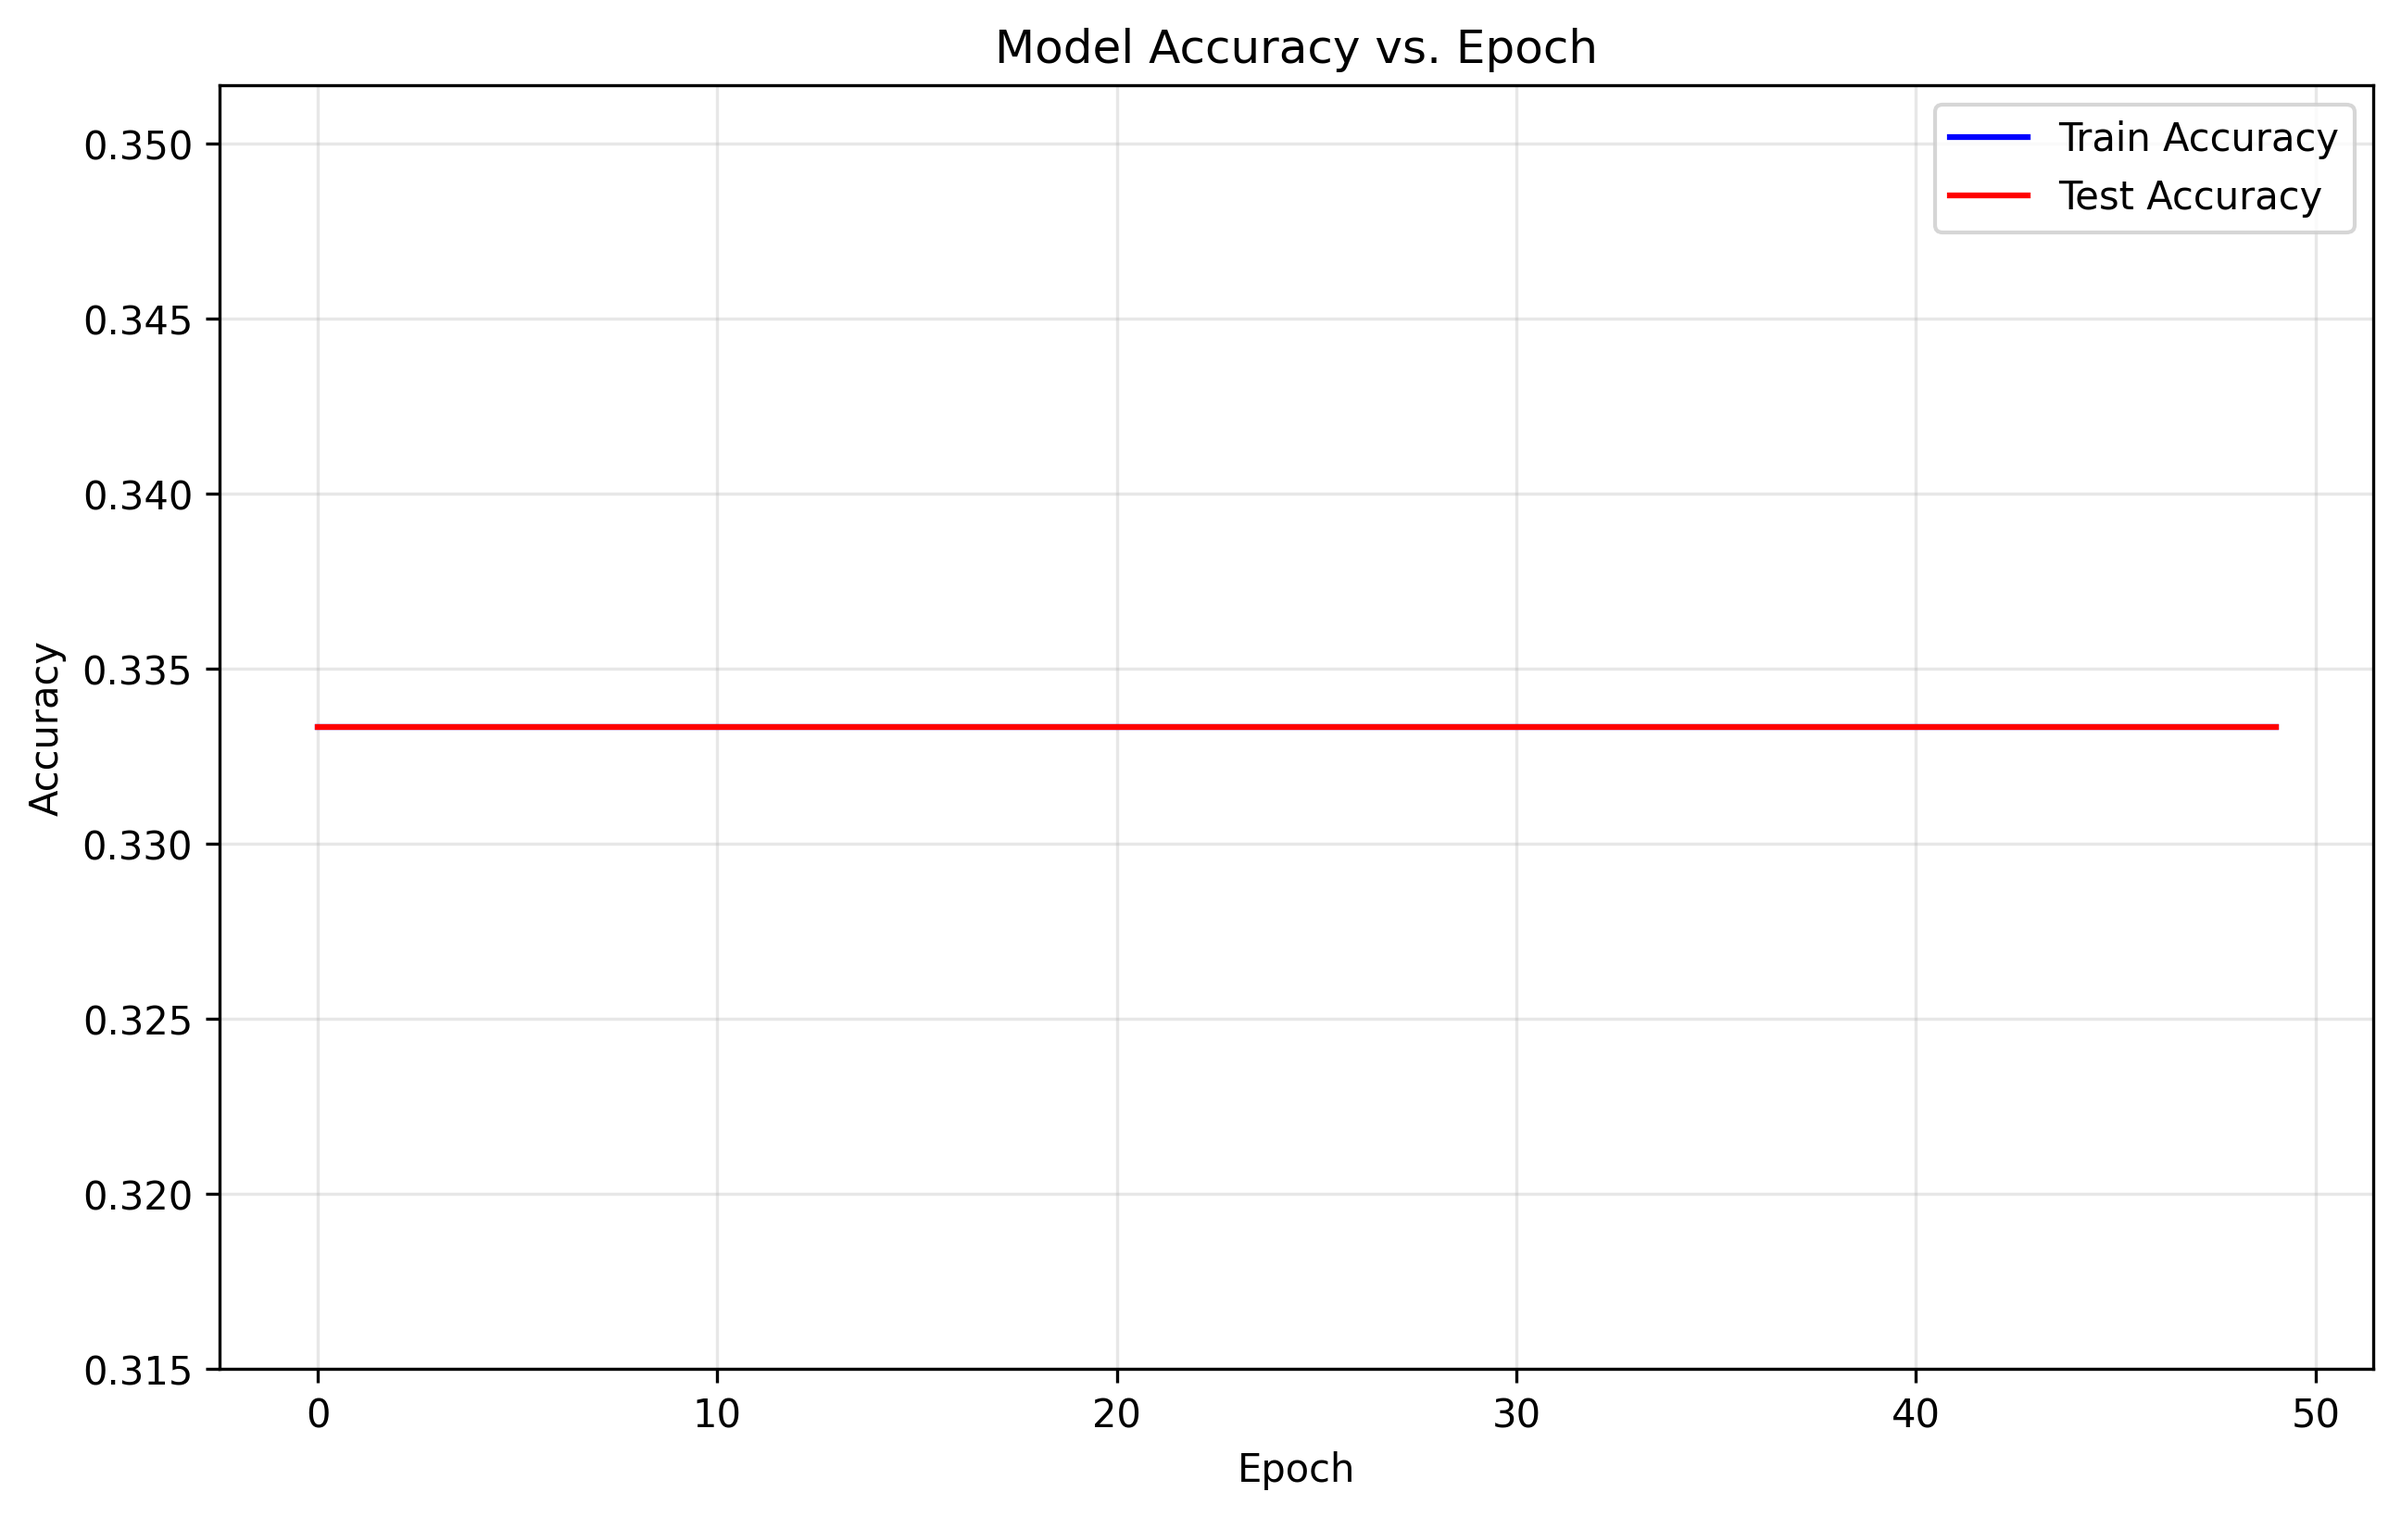
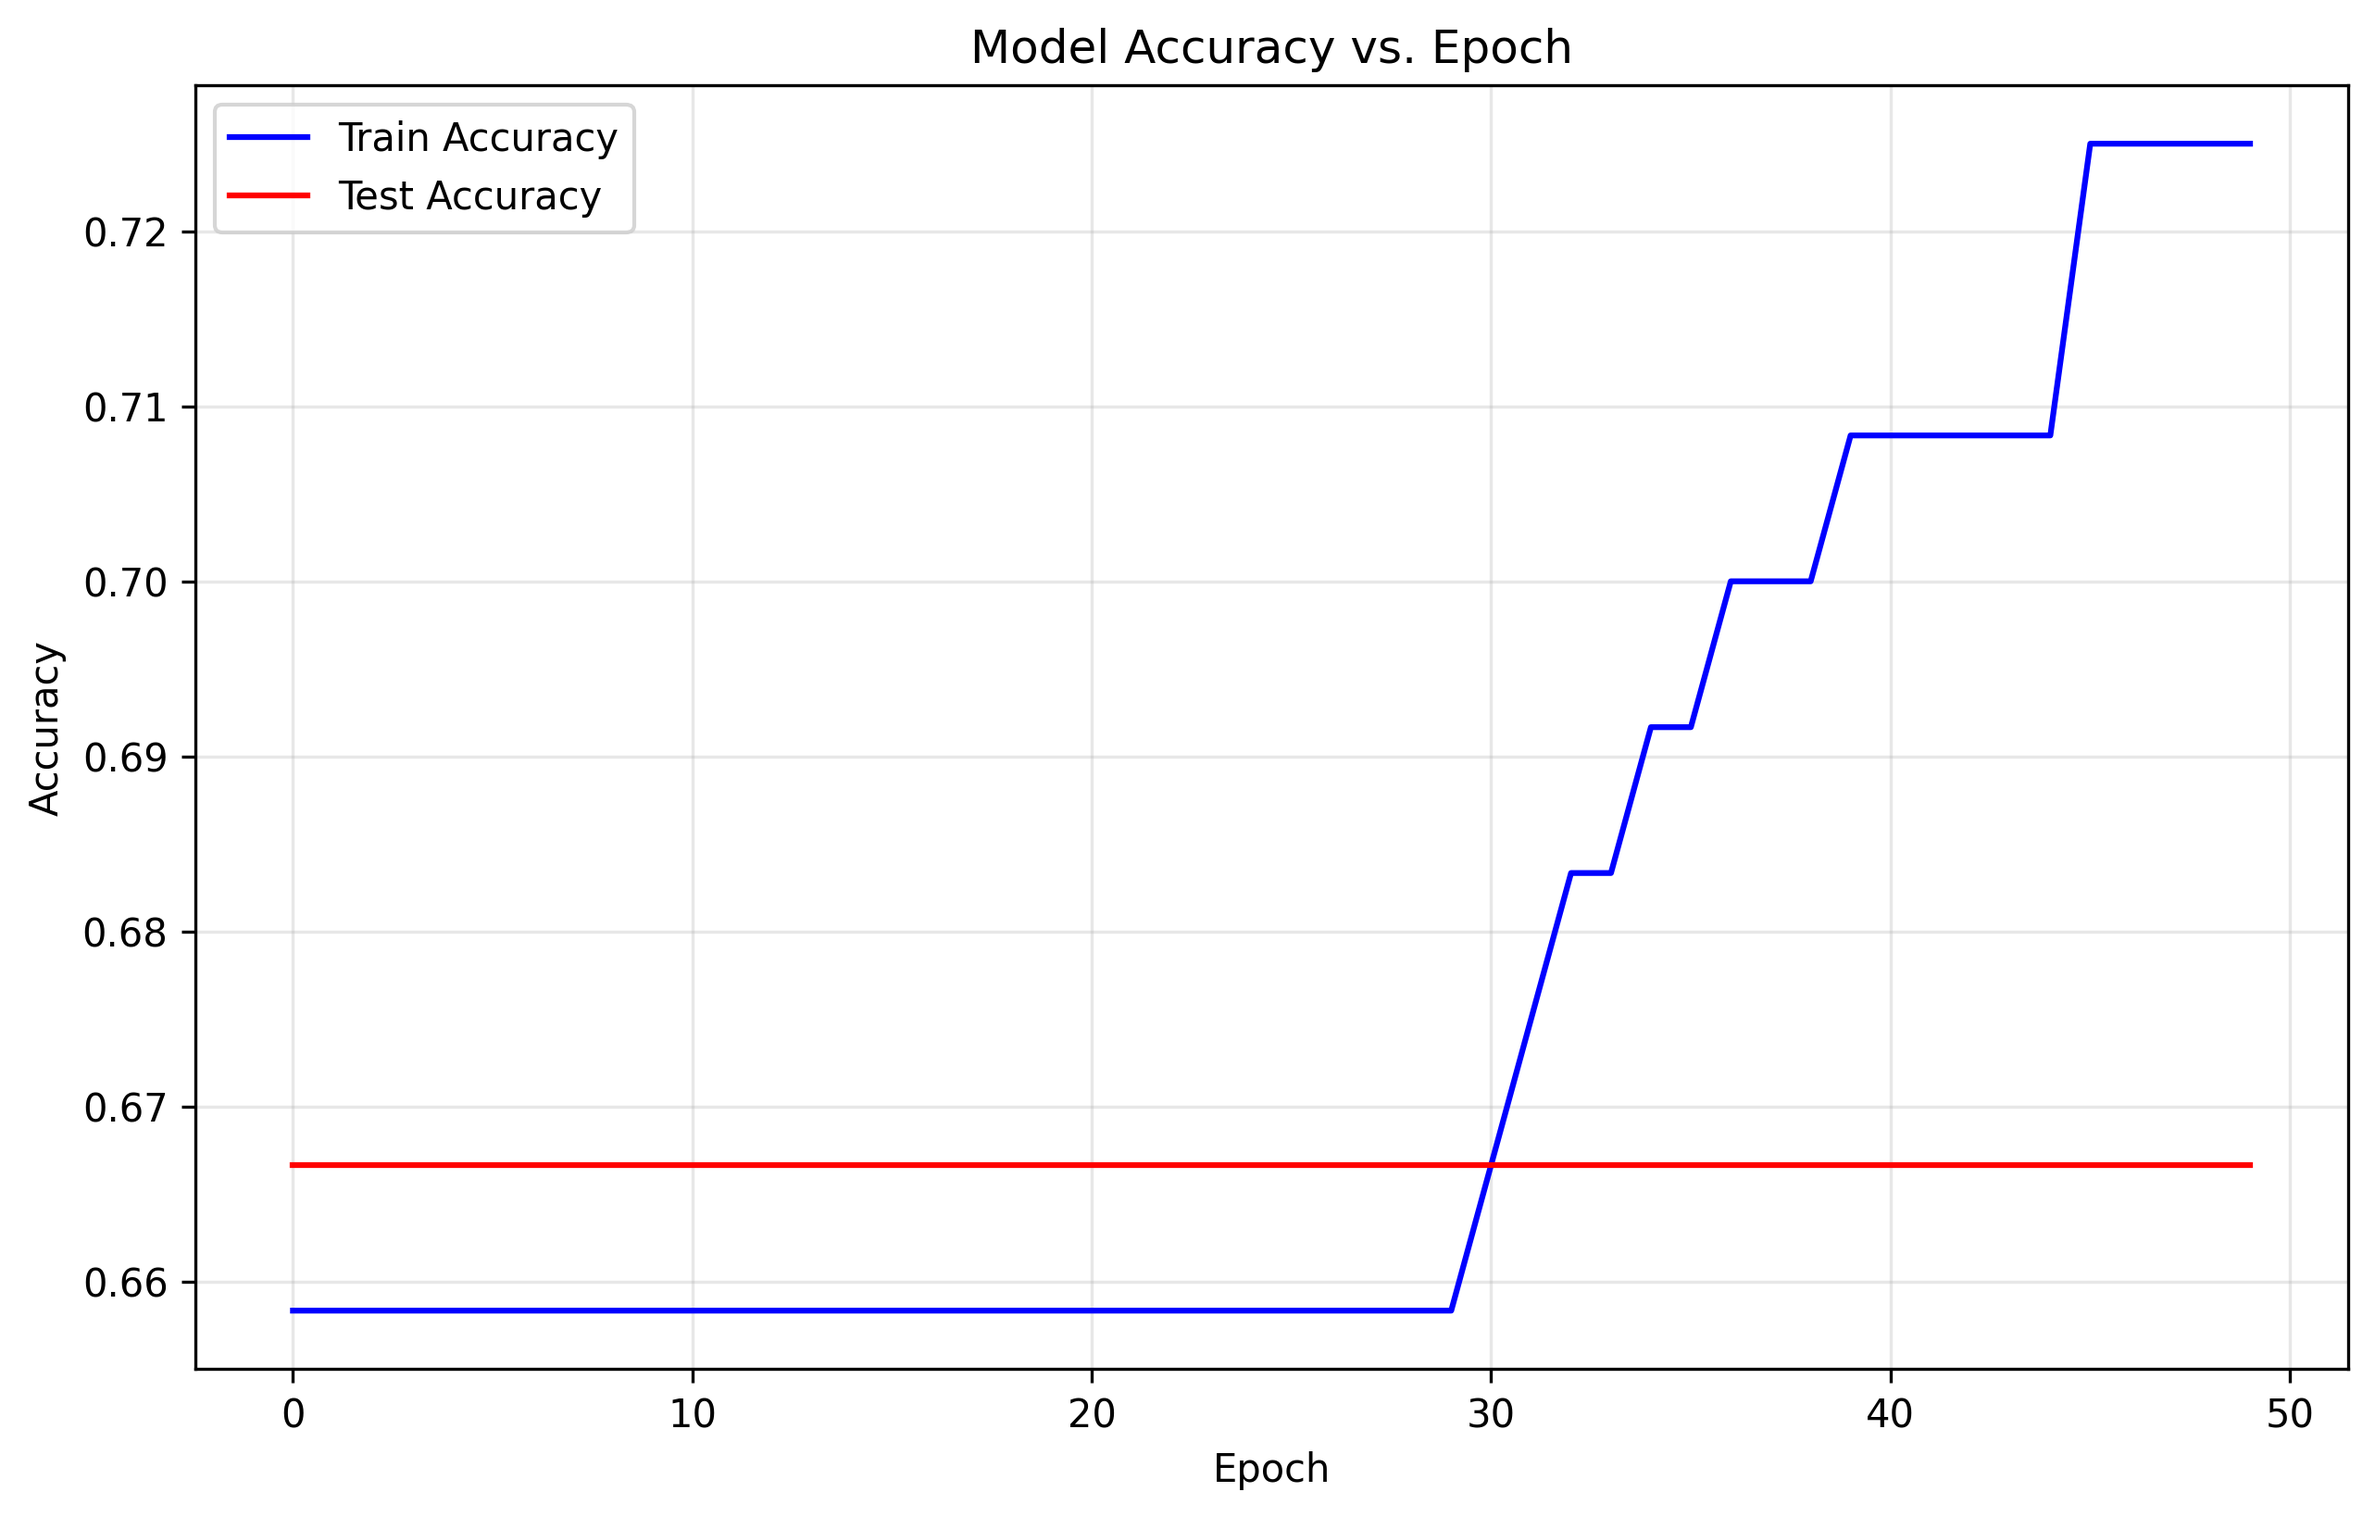
increased accuracy

diff --git a/evaluation.py b/evaluation.py
@@ -24,109 +24,3 @@ def plot_accuracy(train_accuracies, test_accuracies):
     plt.savefig("accuracy_plot.png", dpi=300, bbox_inches='tight')  # saves the plot to file
     plt.show()
 
-def evaluate_model_performance(model, X_train, X_test, y_train, y_test, train_accuracies, test_accuracies):
-    """
-    Comprehensive model evaluation with detailed metrics
-    
-    Args:
-        model: Trained PyTorch model
-        X_train, X_test, y_train, y_test: Data splits
-        train_accuracies, test_accuracies: Lists of accuracies over epochs
-    """
-    print("=" * 60)
-    print("COMPREHENSIVE MODEL EVALUATION")
-    print("=" * 60)
-    
-    # Set model to evaluation mode
-    model.eval()
-    
-    with torch.no_grad():
-        # Get predictions
-        train_preds = torch.argmax(model(X_train), dim=1)
-        test_preds = torch.argmax(model(X_test), dim=1)
-        
-        # Convert to numpy for sklearn metrics
-        train_preds_np = train_preds.numpy()
-        test_preds_np = test_preds.numpy()
-        y_train_np = y_train.numpy()
-        y_test_np = y_test.numpy()
-    
-    # Final accuracy scores
-    final_train_acc = accuracy_score(y_train_np, train_preds_np)
-    final_test_acc = accuracy_score(y_test_np, test_preds_np)
-    
-    print(f"\n📊 FINAL ACCURACY SCORES:")
-    print(f"   Training Accuracy: {final_train_acc:.4f} ({final_train_acc*100:.2f}%)")
-    print(f"   Test Accuracy:     {final_test_acc:.4f} ({final_test_acc*100:.2f}%)")
-    
-    # Learning progress analysis
-    print(f"\n📈 LEARNING PROGRESS ANALYSIS:")
-    print(f"   Starting Train Acc: {train_accuracies[0]:.4f}")
-    print(f"   Final Train Acc:    {train_accuracies[-1]:.4f}")
-    print(f"   Improvement:        {train_accuracies[-1] - train_accuracies[0]:.4f}")
-    
-    print(f"   Starting Test Acc:  {test_accuracies[0]:.4f}")
-    print(f"   Final Test Acc:     {test_accuracies[-1]:.4f}")
-    print(f"   Improvement:        {test_accuracies[-1] - test_accuracies[0]:.4f}")
-    
-    # Overfitting analysis
-    overfitting = final_train_acc - final_test_acc
-    print(f"\n⚠  OVERFITTING ANALYSIS:")
-    print(f"   Train-Test Gap:     {overfitting:.4f}")
-    if overfitting > 0.1:
-        print("   ⚠  WARNING: Potential overfitting detected!")
-    elif overfitting < -0.05:
-        print("   ⚠  WARNING: Model might be underfitting!")
-    else:
-        print("   ✅ Good generalization (low overfitting)")
-    
-    # Performance assessment
-    print(f"\n🎯 PERFORMANCE ASSESSMENT:")
-    if final_test_acc > 0.9:
-        print("   🏆 EXCELLENT: Model performs very well!")
-    elif final_test_acc > 0.8:
-        print("   ✅ GOOD: Model performs well")
-    elif final_test_acc > 0.6:
-        print("   ⚠  FAIR: Model needs improvement")
-    elif final_test_acc > 0.4:
-        print("   ❌ POOR: Model needs significant improvement")
-    else:
-        print("   💀 VERY POOR: Model is essentially random")
-    
-    # Detailed classification report
-    print(f"\n📋 DETAILED CLASSIFICATION REPORT:")
-    print(classification_report(y_test_np, test_preds_np, 
-                              target_names=['Setosa', 'Versicolor', 'Virginica']))
-    
-    # Confusion matrix
-    print(f"\n🔍 CONFUSION MATRIX:")
-    cm = confusion_matrix(y_test_np, test_preds_np)
-    print("Predicted →")
-    print("Actual ↓")
-    print("           Setosa  Versicolor  Virginica")
-    print(f"Setosa      {cm[0][0]:>7}  {cm[0][1]:>10}  {cm[0][2]:>9}")
-    print(f"Versicolor  {cm[1][0]:>7}  {cm[1][1]:>10}  {cm[1][2]:>9}")
-    print(f"Virginica   {cm[2][0]:>7}  {cm[2][1]:>10}  {cm[2][2]:>9}")
-    
-    # Recommendations
-    print(f"\n💡 RECOMMENDATIONS:")
-    if final_test_acc < 0.4:
-        print("   • Increase learning rate")
-        print("   • Add more layers or neurons")
-        print("   • Train for more epochs")
-        print("   • Check data preprocessing")
-        print("   • Consider different optimizer")
-    elif final_test_acc < 0.7:
-        print("   • Fine-tune hyperparameters")
-        print("   • Try different architectures")
-        print("   • Add regularization")
-    else:
-        print("   • Model is performing well!")
-        print("   • Consider ensemble methods for even better performance")
-    
-    print("=" * 60)
-
-# Example usage (uncomment if running this file directly):
-# if __name__ == "__main__":
-#     # This would be called from data_training.py with actual data
-#     plot_accuracy(train_accuracies, test_accuracies)

diff --git a/data_model.py b/data_model.py
@@ -3,15 +3,13 @@ import torch.nn as nn
 import torch.nn.functional as F
 
 class Model(nn.Module):
-    def __init__(self, input_size=4, h1=8, h2=10, output_size=3):
-        super(Model, self).__init__()
-        self.fc1 = nn.Linear(input_size, h1)
-        self.fc2 = nn.Linear(h1, h2)
-        self.out = nn.Linear(h2, output_size)
+    def __init__(self):
+        super().__init__()
+        self.fc1 = nn.Linear(4, 16)
+        self.out = nn.Linear(16, 3)
         
     def forward(self, x):
         x = F.relu(self.fc1(x))
-        x = F.relu(self.fc2(x))
         x = self.out(x)
         return x
 
